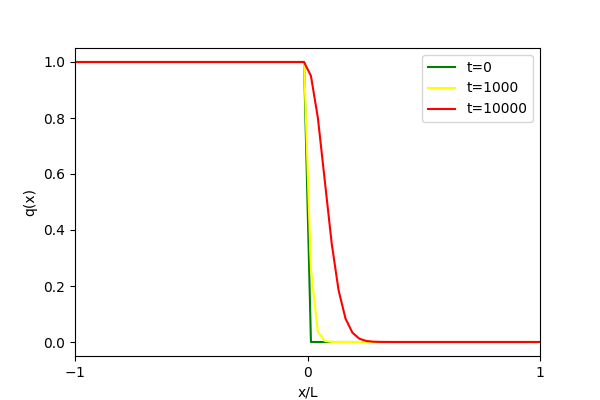
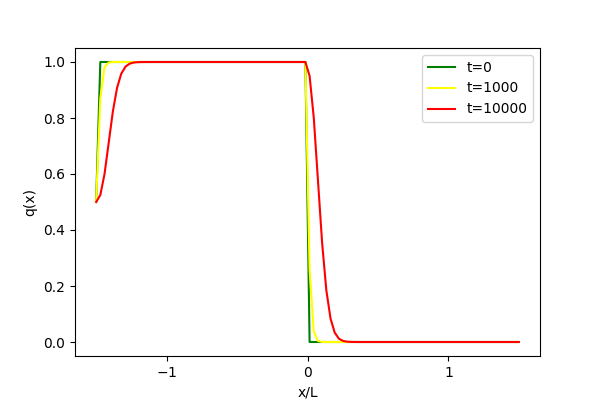
continued on ex 09

diff --git a/09/code/task_1.py b/09/code/task_1.py
@@ -13,7 +13,6 @@ q_0 = (x - np.abs(x))/(2*x)
 
 def plot(q, task, scheme='upwind', ts=[0, 250, 500]):
     plt.figure(figsize=(6, 4))
-    # print(q, ts)
 
     colors = ['green', 'yellow', 'red']
     for idx, t in enumerate(ts):
@@ -22,7 +21,7 @@ def plot(q, task, scheme='upwind', ts=[0, 250, 500]):
     plt.xticks([-L, 0, L], ['$-1$', 0, '1'])
     plt.xlabel('x/L')
     plt.ylabel('q(x)')
-    plt.xlim(-L, L)
+    # plt.xlim(-L, L)
 
     plt.legend()
     plt.savefig(f"../figures/{scheme}_{task}.png")
@@ -37,11 +36,11 @@ for idx, scheme in enumerate(['symmetric', 'upwind', 'downwind']):
 # exercise 01, part 4, 5
 q = advection(q_0, boundary_conditions=[.5, 0], t_N=10000)
 plot(q, 4, ts=[0, 1000, 10000])
-q = advection(q_0, boundary_conditions=[0, .5], t_N=10000)
+q = advection(q_0, boundary_conditions=[1, .5], t_N=10000)
 plot(q, 5, ts=[0, 1000, 10000])
 
 # exercise 01, part 6, 7
 q = advection(q_0, t_N=1000)
-plot(q, 6, ts=[0, 500, 1000])
+plot(q, 6, ts=[3])
 q = advection(q_0, t_N=10)
-plot(q, 7, ts=[0, 5, 10])
+plot(q, 7, ts=[3])

diff --git a/09/tex/task01.tex b/09/tex/task01.tex
@@ -114,7 +114,7 @@ only use the upwind method.
         \caption{}
     \end{figure} \ \\ 
 
-\paragraph{6. Repeat, but now use a $10\times$ larger time 
+\paragraph{7. Repeat, but now use a $10\times$ larger time 
     step, i.e. take 10 time steps between $t=0$ and $t=3$. 
     Explain what happens.
 } \ \\
